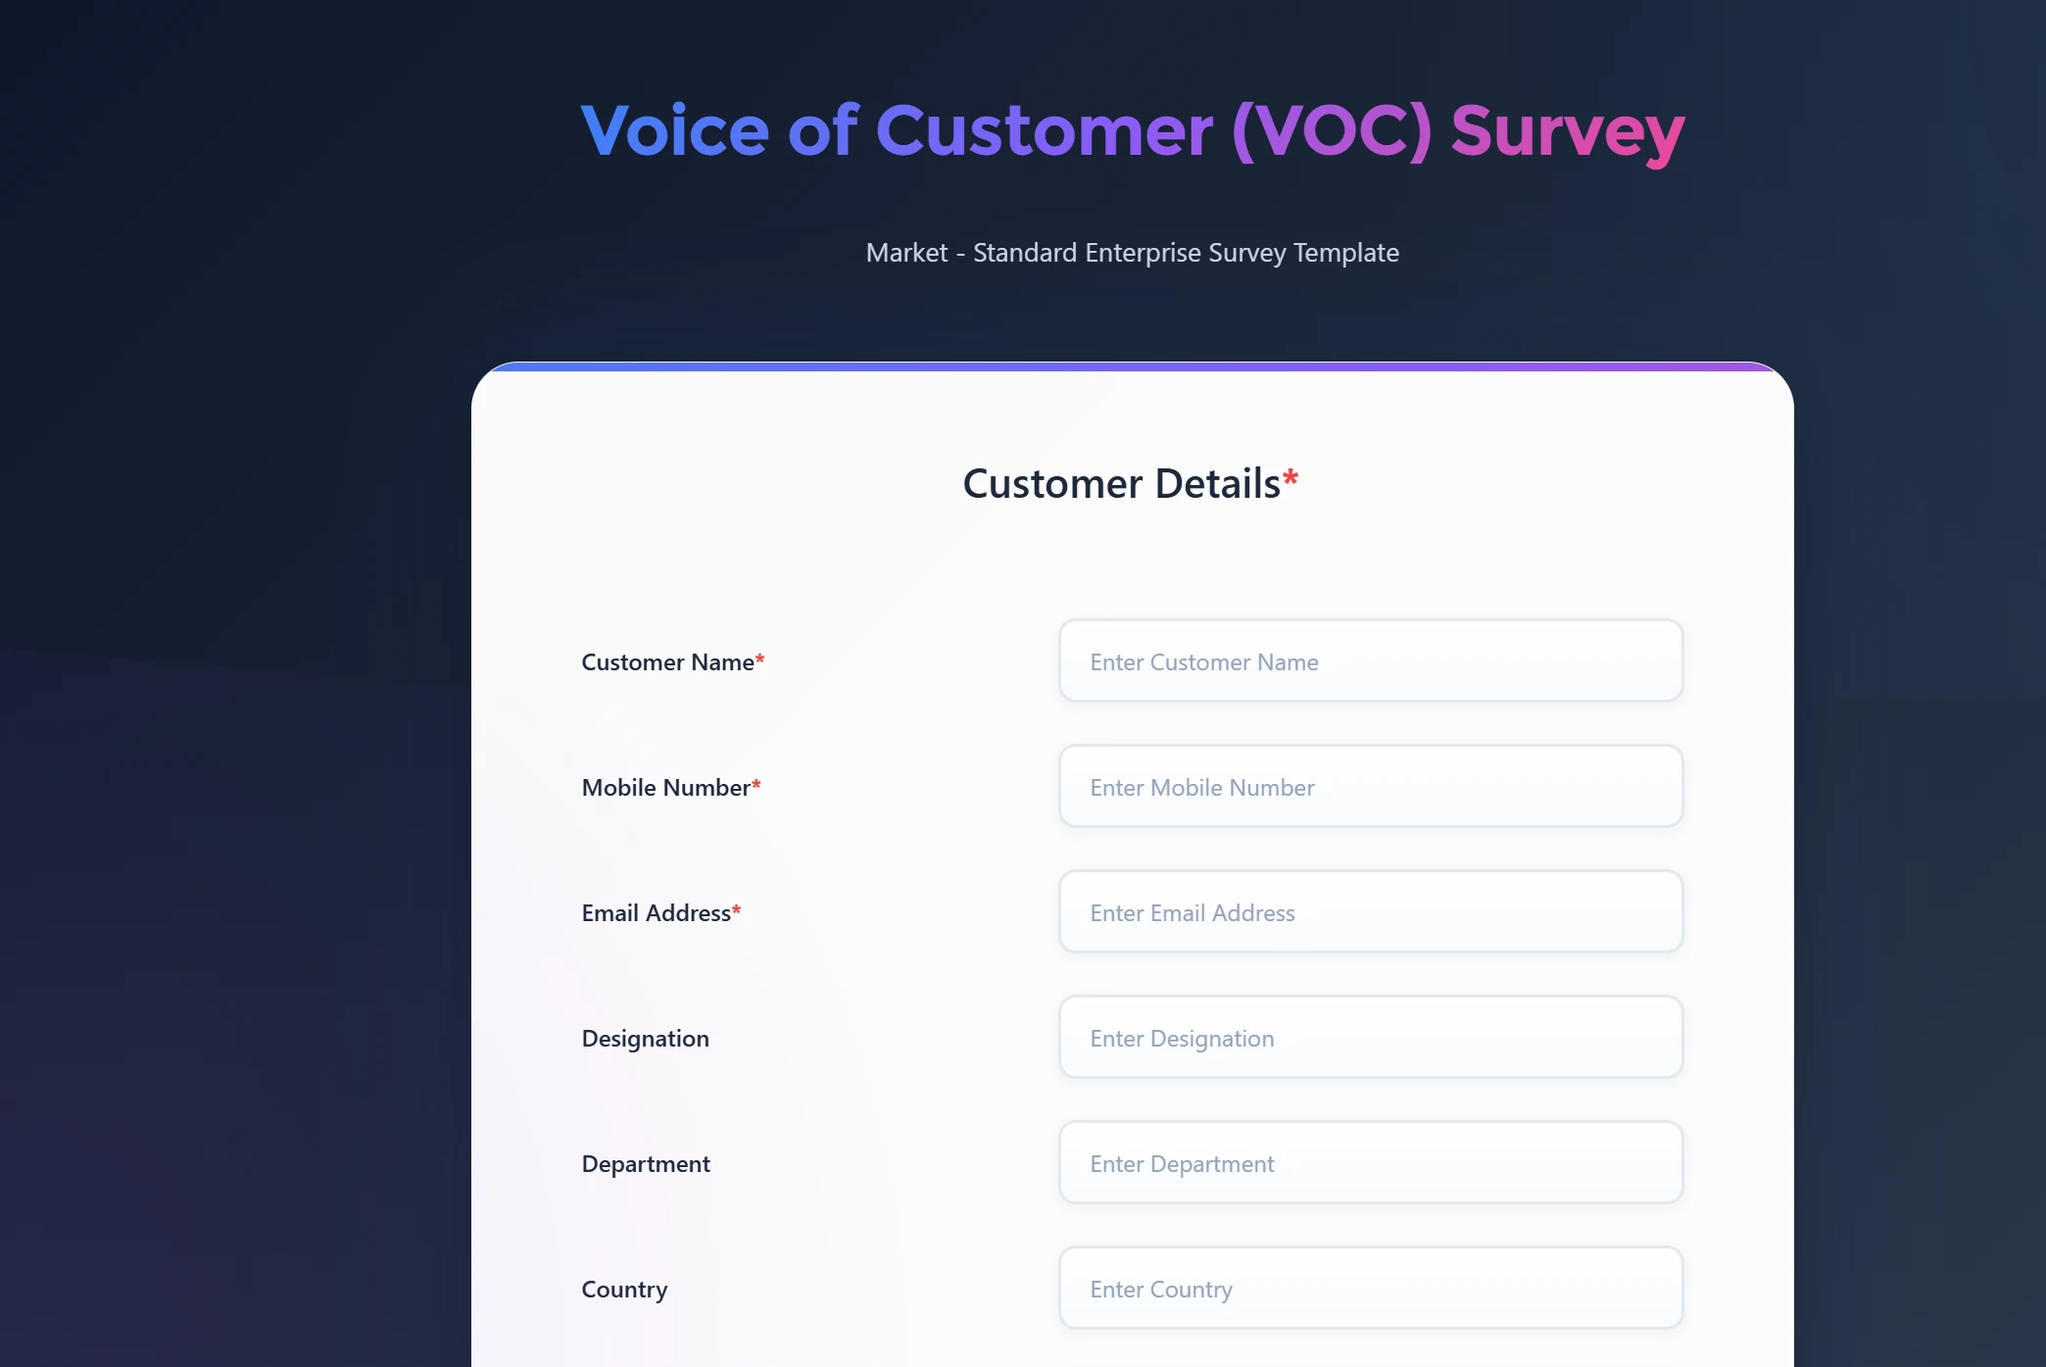
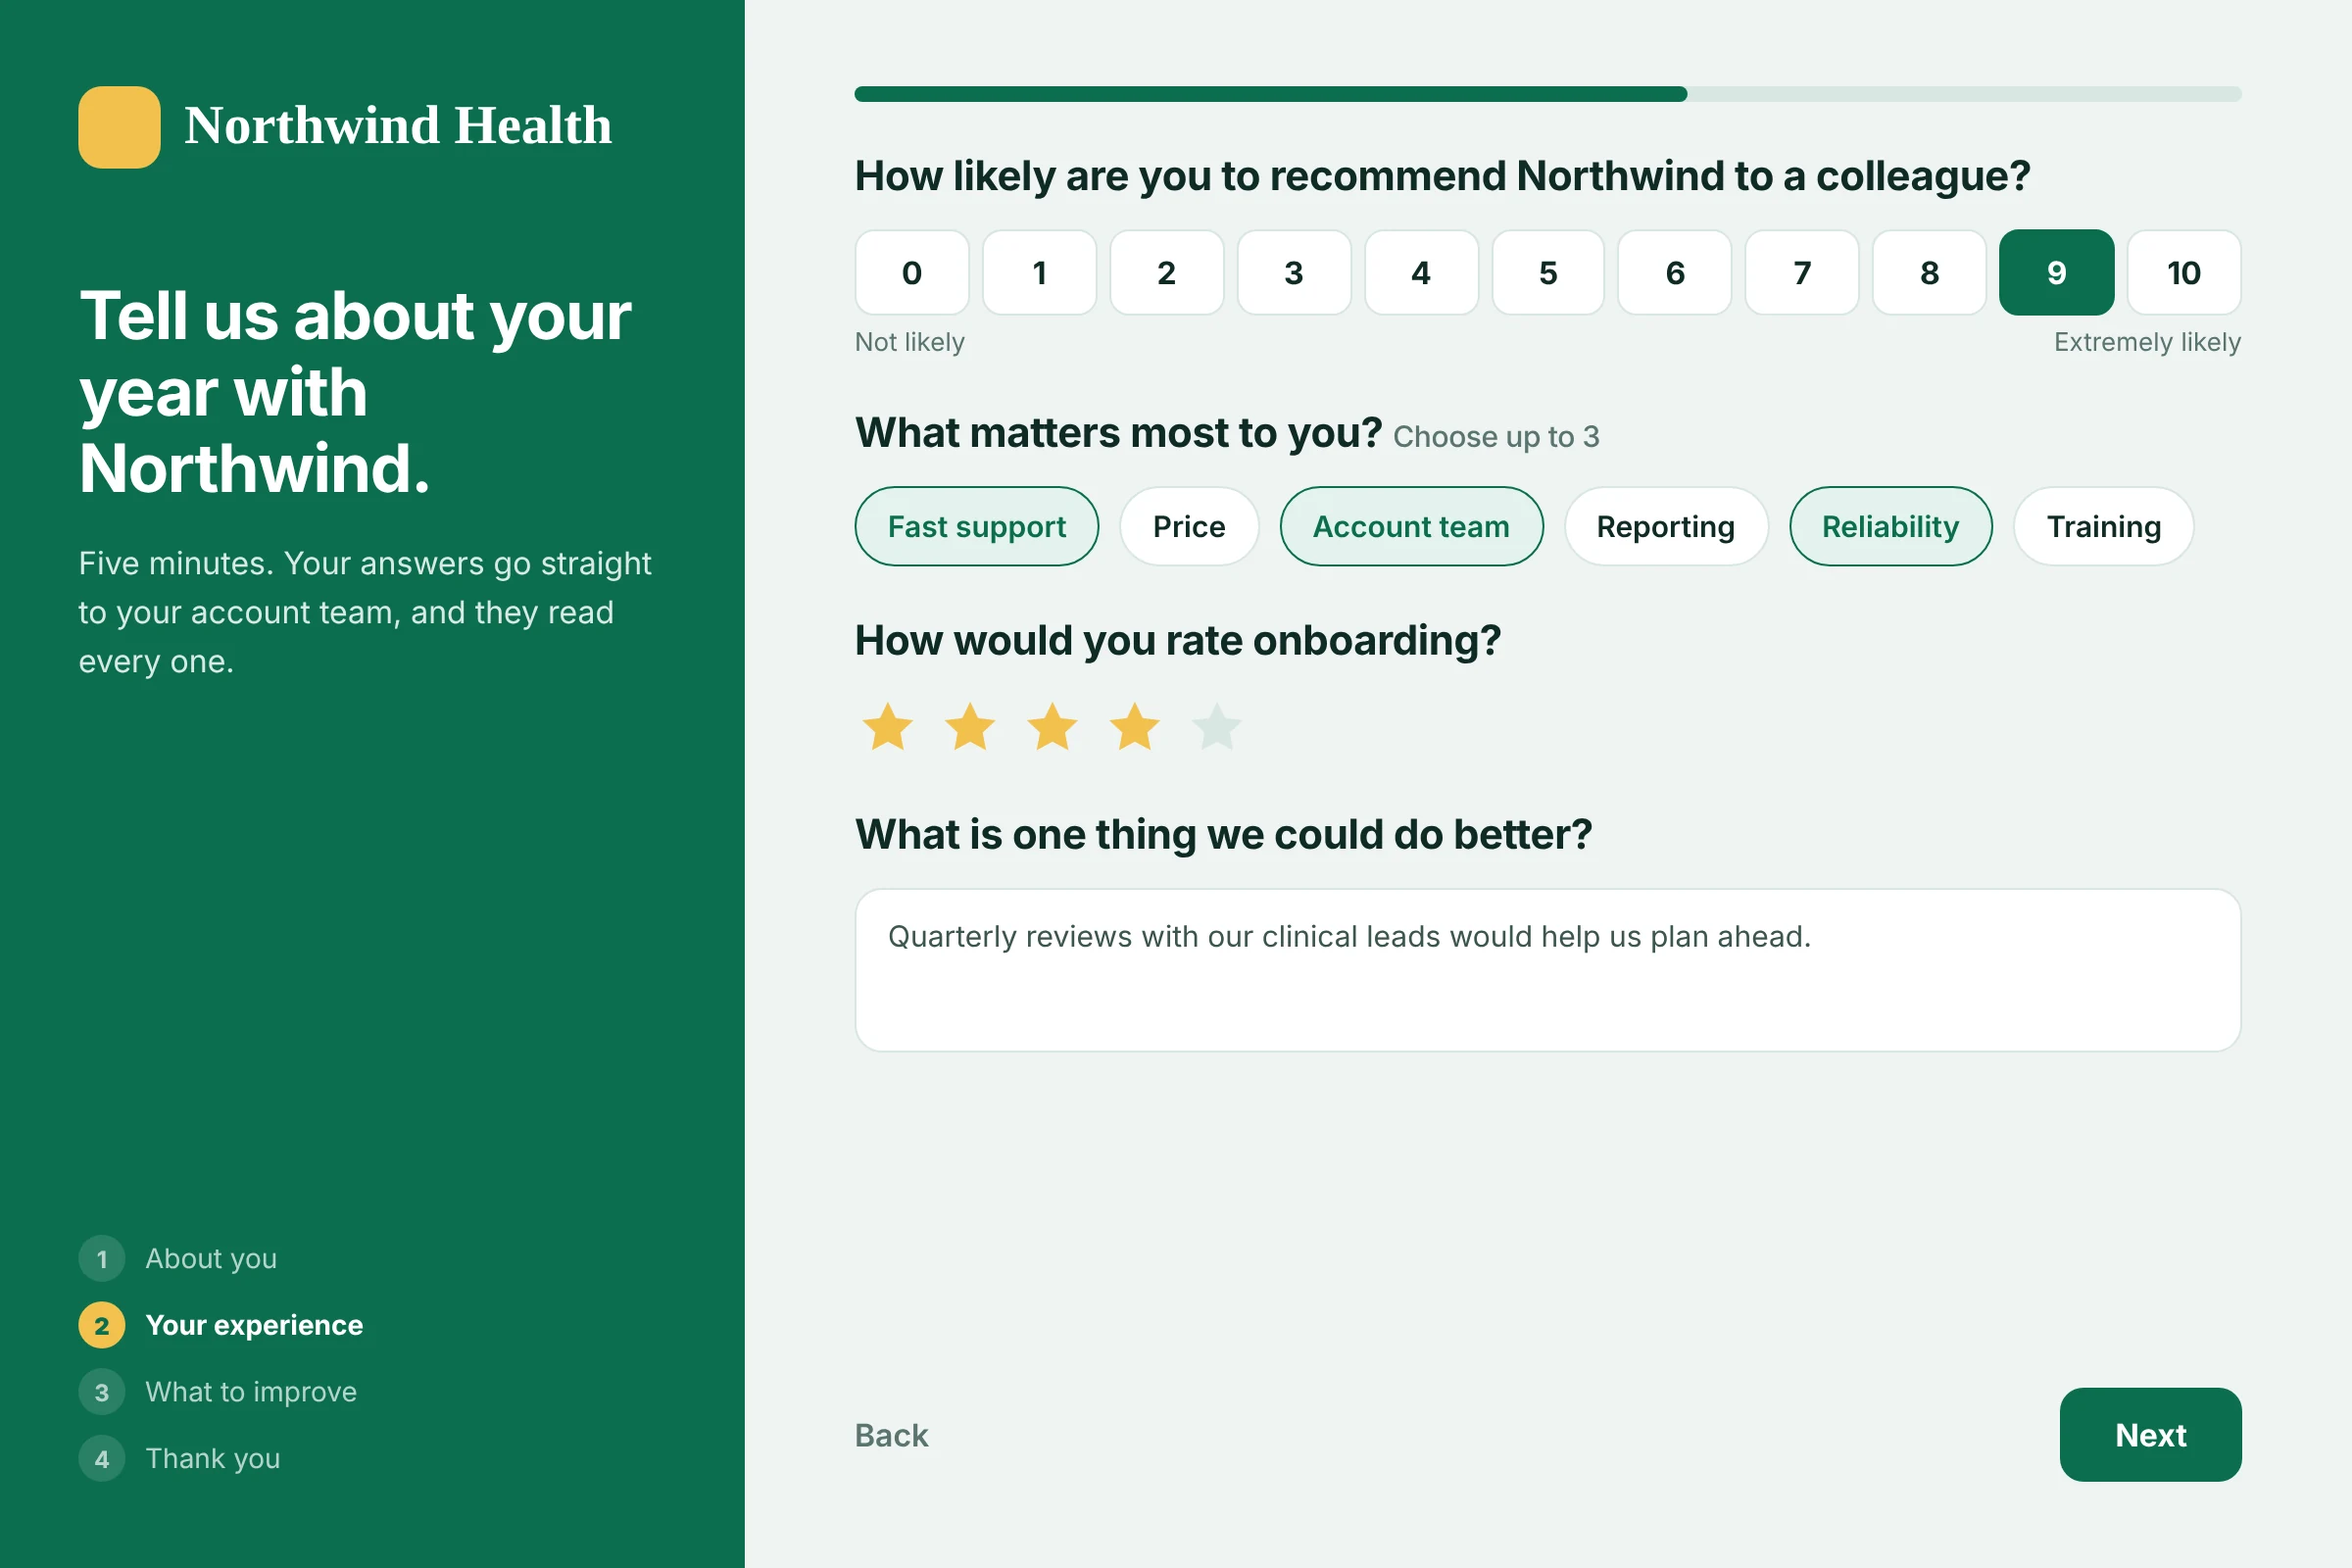
Product tour: branded Voice of Customer form and a visual response comparison
Claude-Session: https://claude.ai/code/session_01MY5XrxTha1JmVebUjjUfYu

diff --git a/index.html b/index.html
@@ -1560,12 +1560,12 @@ function wireLead(root){ root.querySelectorAll(".lform").forEach(f=>{ if(f._w) r
 
 // ---------- Product tour (real product screens from a demo org) ----------
 const TOUR=[["csat-survey","Branded CSAT survey","One question at a time, on your Experience Cloud site.","Customer-facing CSAT survey on an Experience Cloud site","yourcompany.my.site.com/CSATSurvey",""],
- ["voc-survey","Voice of Customer form","Ready-made enterprise templates you brand in minutes.","Voice of Customer survey template with customer details","yourcompany.my.site.com/VOCSurvey",""],
+ ["voc-survey","Voice of Customer form","Ready-made enterprise templates you brand in minutes.","A Voice of Customer survey in a customer's own brand, with NPS, choices, stars and a comment","yourcompany.my.site.com/VOCSurvey",""],
  ["response-detail","Every response, on the record","Scores, answers and comments in one view, inside Salesforce.","Survey response detail showing an NPS score of 10 and each answer","NPS Survey CX OS · Survey Response","narrow"],
- ["response-comparison","Compare responses side by side","Spot patterns across people, teams and time.","Two survey responses compared side by side","NPS Survey CX OS · Response comparison",""]];
+ ["response-comparison","Compare responses side by side","Spot patterns across people, teams and time.","NPS by team over four quarters, and two answers from the same account compared side by side","NPS Survey CX OS · Response comparison",""]];
 const tour=(id)=>`<div class="tour" data-tour="${id}"><div class="ttabs" role="tablist" aria-label="Product screens">${TOUR.map((t,i)=>`<button class="ttab" role="tab" type="button" aria-selected="${i===0}" data-i="${i}"><b>${t[1]}</b><span>${t[2]}</span></button>`).join("")}</div>
  <div><div class="bframe"><div class="bar"><i></i><i></i><i></i><span class="turl">${TOUR[0][4]}</span></div><div class="shot"><img class="timg ${TOUR[0][5]}" src="brand/product/${TOUR[0][0]}.webp" alt="${TOUR[0][3]}" loading="lazy"></div></div>
- <p class="tcap">Real screens from a NPS Survey CX OS demo org. Names and org details are blurred.</p></div></div>`;
+ <p class="tcap">NPS Survey CX OS screens. Company and people names are examples.</p></div></div>`;
 function wireTour(root){ root.querySelectorAll("[data-tour]").forEach(t=>{ if(t._w) return; t._w=1; const img=t.querySelector(".timg"), url=t.querySelector(".turl");
   t.querySelectorAll(".ttab").forEach(b=>b.addEventListener("click",()=>{ const x=TOUR[+b.dataset.i]; t.querySelectorAll(".ttab").forEach(o=>o.setAttribute("aria-selected",String(o===b)));
     img.src=`brand/product/${x[0]}.webp`; img.alt=x[3]; img.className="timg "+x[5]; url.textContent=x[4]; })); }); }

diff --git a/public-sector/index.html b/public-sector/index.html
@@ -1560,12 +1560,12 @@ function wireLead(root){ root.querySelectorAll(".lform").forEach(f=>{ if(f._w) r
 
 // ---------- Product tour (real product screens from a demo org) ----------
 const TOUR=[["csat-survey","Branded CSAT survey","One question at a time, on your Experience Cloud site.","Customer-facing CSAT survey on an Experience Cloud site","yourcompany.my.site.com/CSATSurvey",""],
- ["voc-survey","Voice of Customer form","Ready-made enterprise templates you brand in minutes.","Voice of Customer survey template with customer details","yourcompany.my.site.com/VOCSurvey",""],
+ ["voc-survey","Voice of Customer form","Ready-made enterprise templates you brand in minutes.","A Voice of Customer survey in a customer's own brand, with NPS, choices, stars and a comment","yourcompany.my.site.com/VOCSurvey",""],
  ["response-detail","Every response, on the record","Scores, answers and comments in one view, inside Salesforce.","Survey response detail showing an NPS score of 10 and each answer","NPS Survey CX OS · Survey Response","narrow"],
- ["response-comparison","Compare responses side by side","Spot patterns across people, teams and time.","Two survey responses compared side by side","NPS Survey CX OS · Response comparison",""]];
+ ["response-comparison","Compare responses side by side","Spot patterns across people, teams and time.","NPS by team over four quarters, and two answers from the same account compared side by side","NPS Survey CX OS · Response comparison",""]];
 const tour=(id)=>`<div class="tour" data-tour="${id}"><div class="ttabs" role="tablist" aria-label="Product screens">${TOUR.map((t,i)=>`<button class="ttab" role="tab" type="button" aria-selected="${i===0}" data-i="${i}"><b>${t[1]}</b><span>${t[2]}</span></button>`).join("")}</div>
  <div><div class="bframe"><div class="bar"><i></i><i></i><i></i><span class="turl">${TOUR[0][4]}</span></div><div class="shot"><img class="timg ${TOUR[0][5]}" src="brand/product/${TOUR[0][0]}.webp" alt="${TOUR[0][3]}" loading="lazy"></div></div>
- <p class="tcap">Real screens from a NPS Survey CX OS demo org. Names and org details are blurred.</p></div></div>`;
+ <p class="tcap">NPS Survey CX OS screens. Company and people names are examples.</p></div></div>`;
 function wireTour(root){ root.querySelectorAll("[data-tour]").forEach(t=>{ if(t._w) return; t._w=1; const img=t.querySelector(".timg"), url=t.querySelector(".turl");
   t.querySelectorAll(".ttab").forEach(b=>b.addEventListener("click",()=>{ const x=TOUR[+b.dataset.i]; t.querySelectorAll(".ttab").forEach(o=>o.setAttribute("aria-selected",String(o===b)));
     img.src=`brand/product/${x[0]}.webp`; img.alt=x[3]; img.className="timg "+x[5]; url.textContent=x[4]; })); }); }
